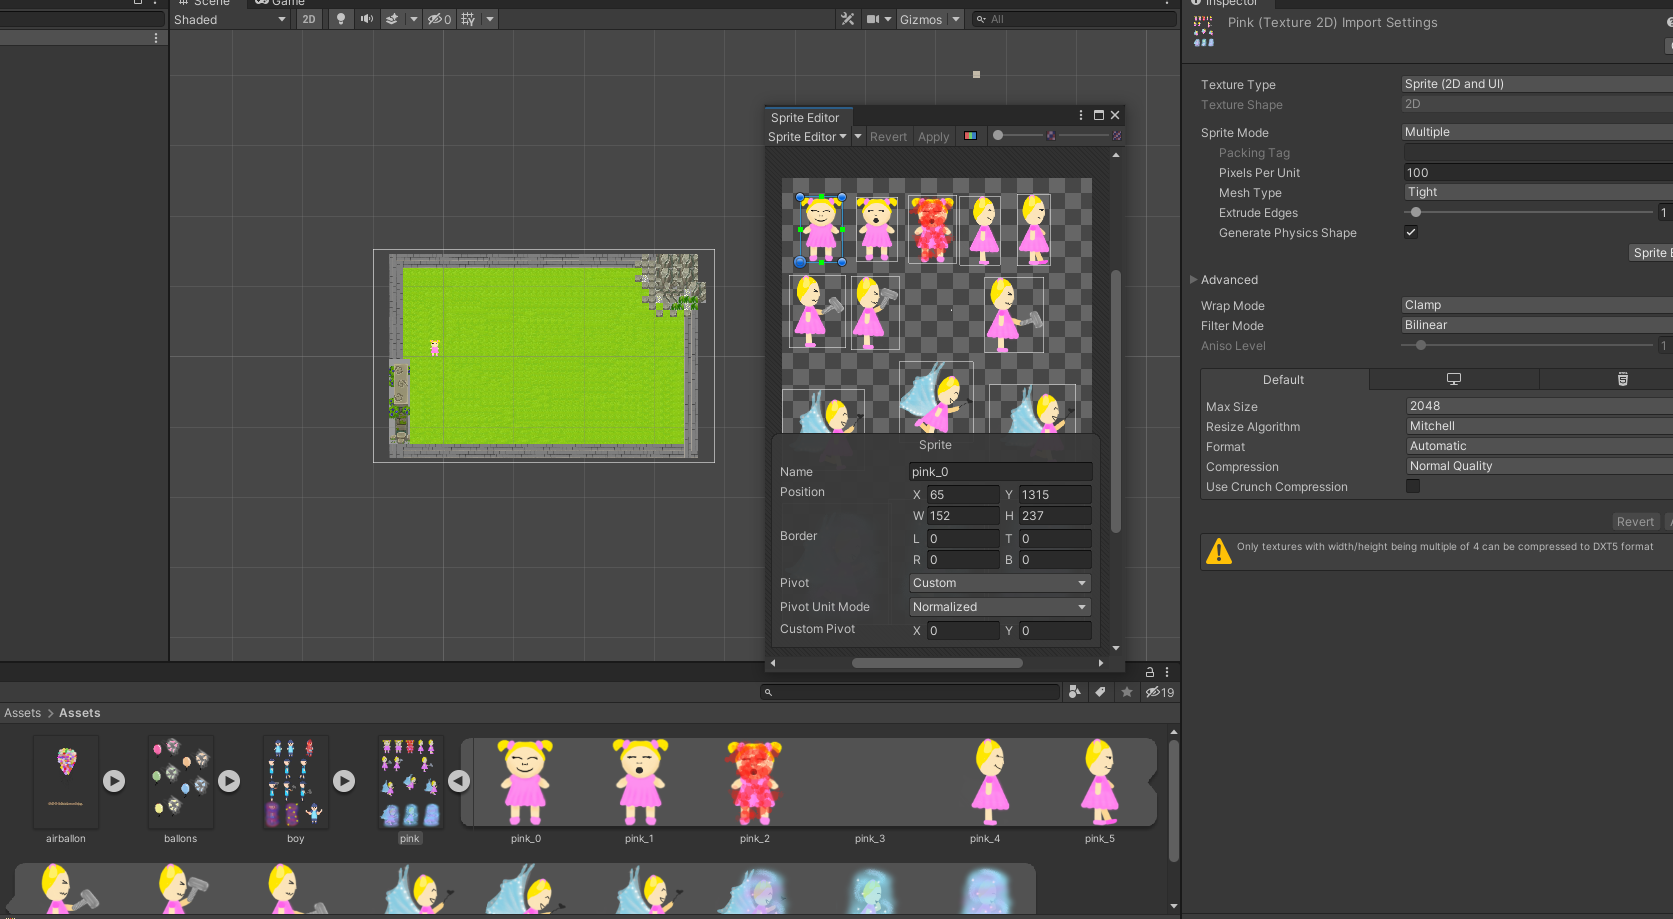
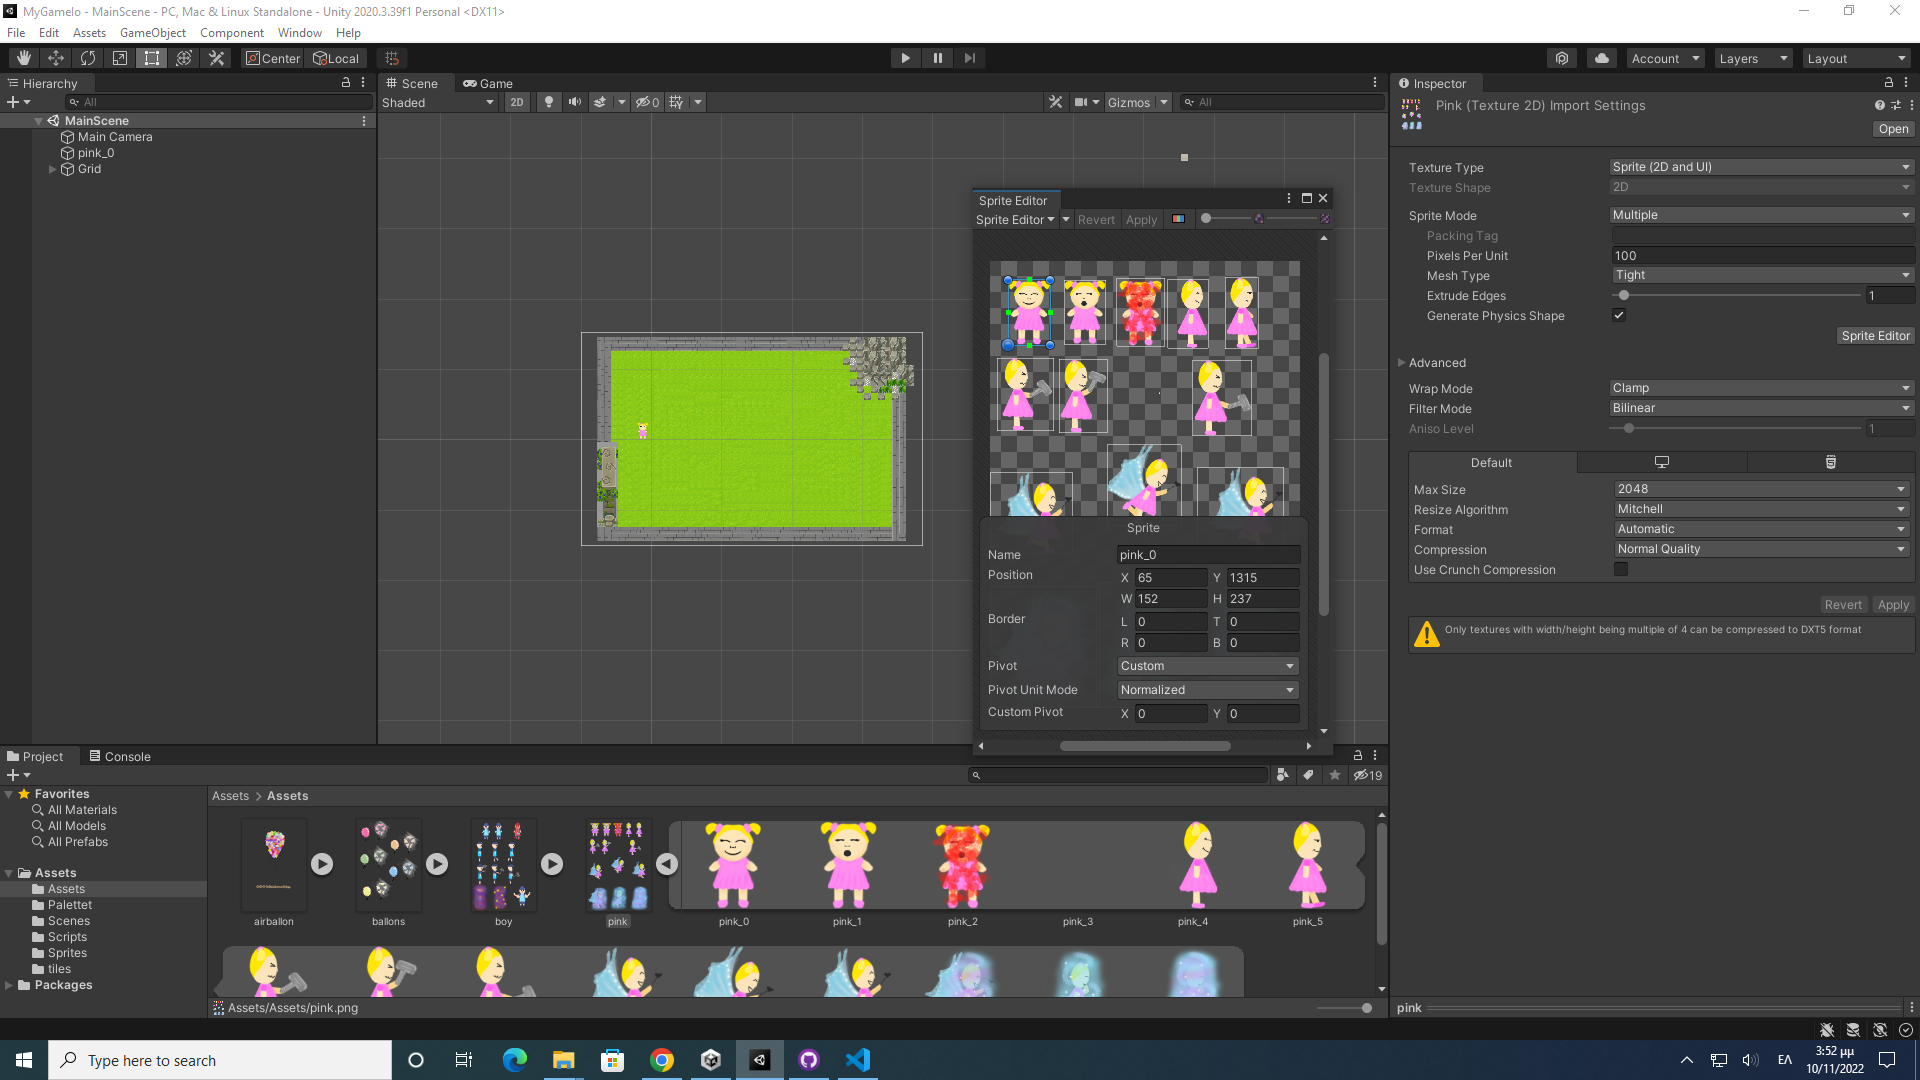
done

diff --git a/my_report/README.md b/my_report/README.md
@@ -22,12 +22,7 @@
 
 
 
-
-
-  ![](dpsdXXXXX/pink.png%0D)
-
- 
-
+![](dpsdXXXXX/pink.png)
 
  Έκοψα την συγκεκριμένη εικόνα και έφτιαξα μια μια κίνηση ξεχωριστά. Ρυθμίζοντας στο το "Sprite Mode" ως  "Multiple" και επειτα πήγα να το επεξεργαστώ.
 
@@ -39,8 +34,14 @@
 
 ![](dpsdXXXXX/scripts1.png)
 
-# 2nd Deliverable
+Υστερα δημιοόυργησα τα εξης:
+Ενα φακελο "Grid" οπου ορισα το πάτωμα σε αυτό.
+Mεσα στα assets μου tiles, αφου εφτιαξα την πιστα μου κατέβασα απο το ιντερνετ εικονες με δίαφορα αντικειμενα για το DEcoretion της πιστας.  
+![](dpsdXXXXX/tiles.png)
+![](dpsdXXXXX/Decorate.png)
+![](dpsdXXXXX/crop_object.png)
 
+# 2nd Deliverable
 
 # 3rd Deliverable 
 
